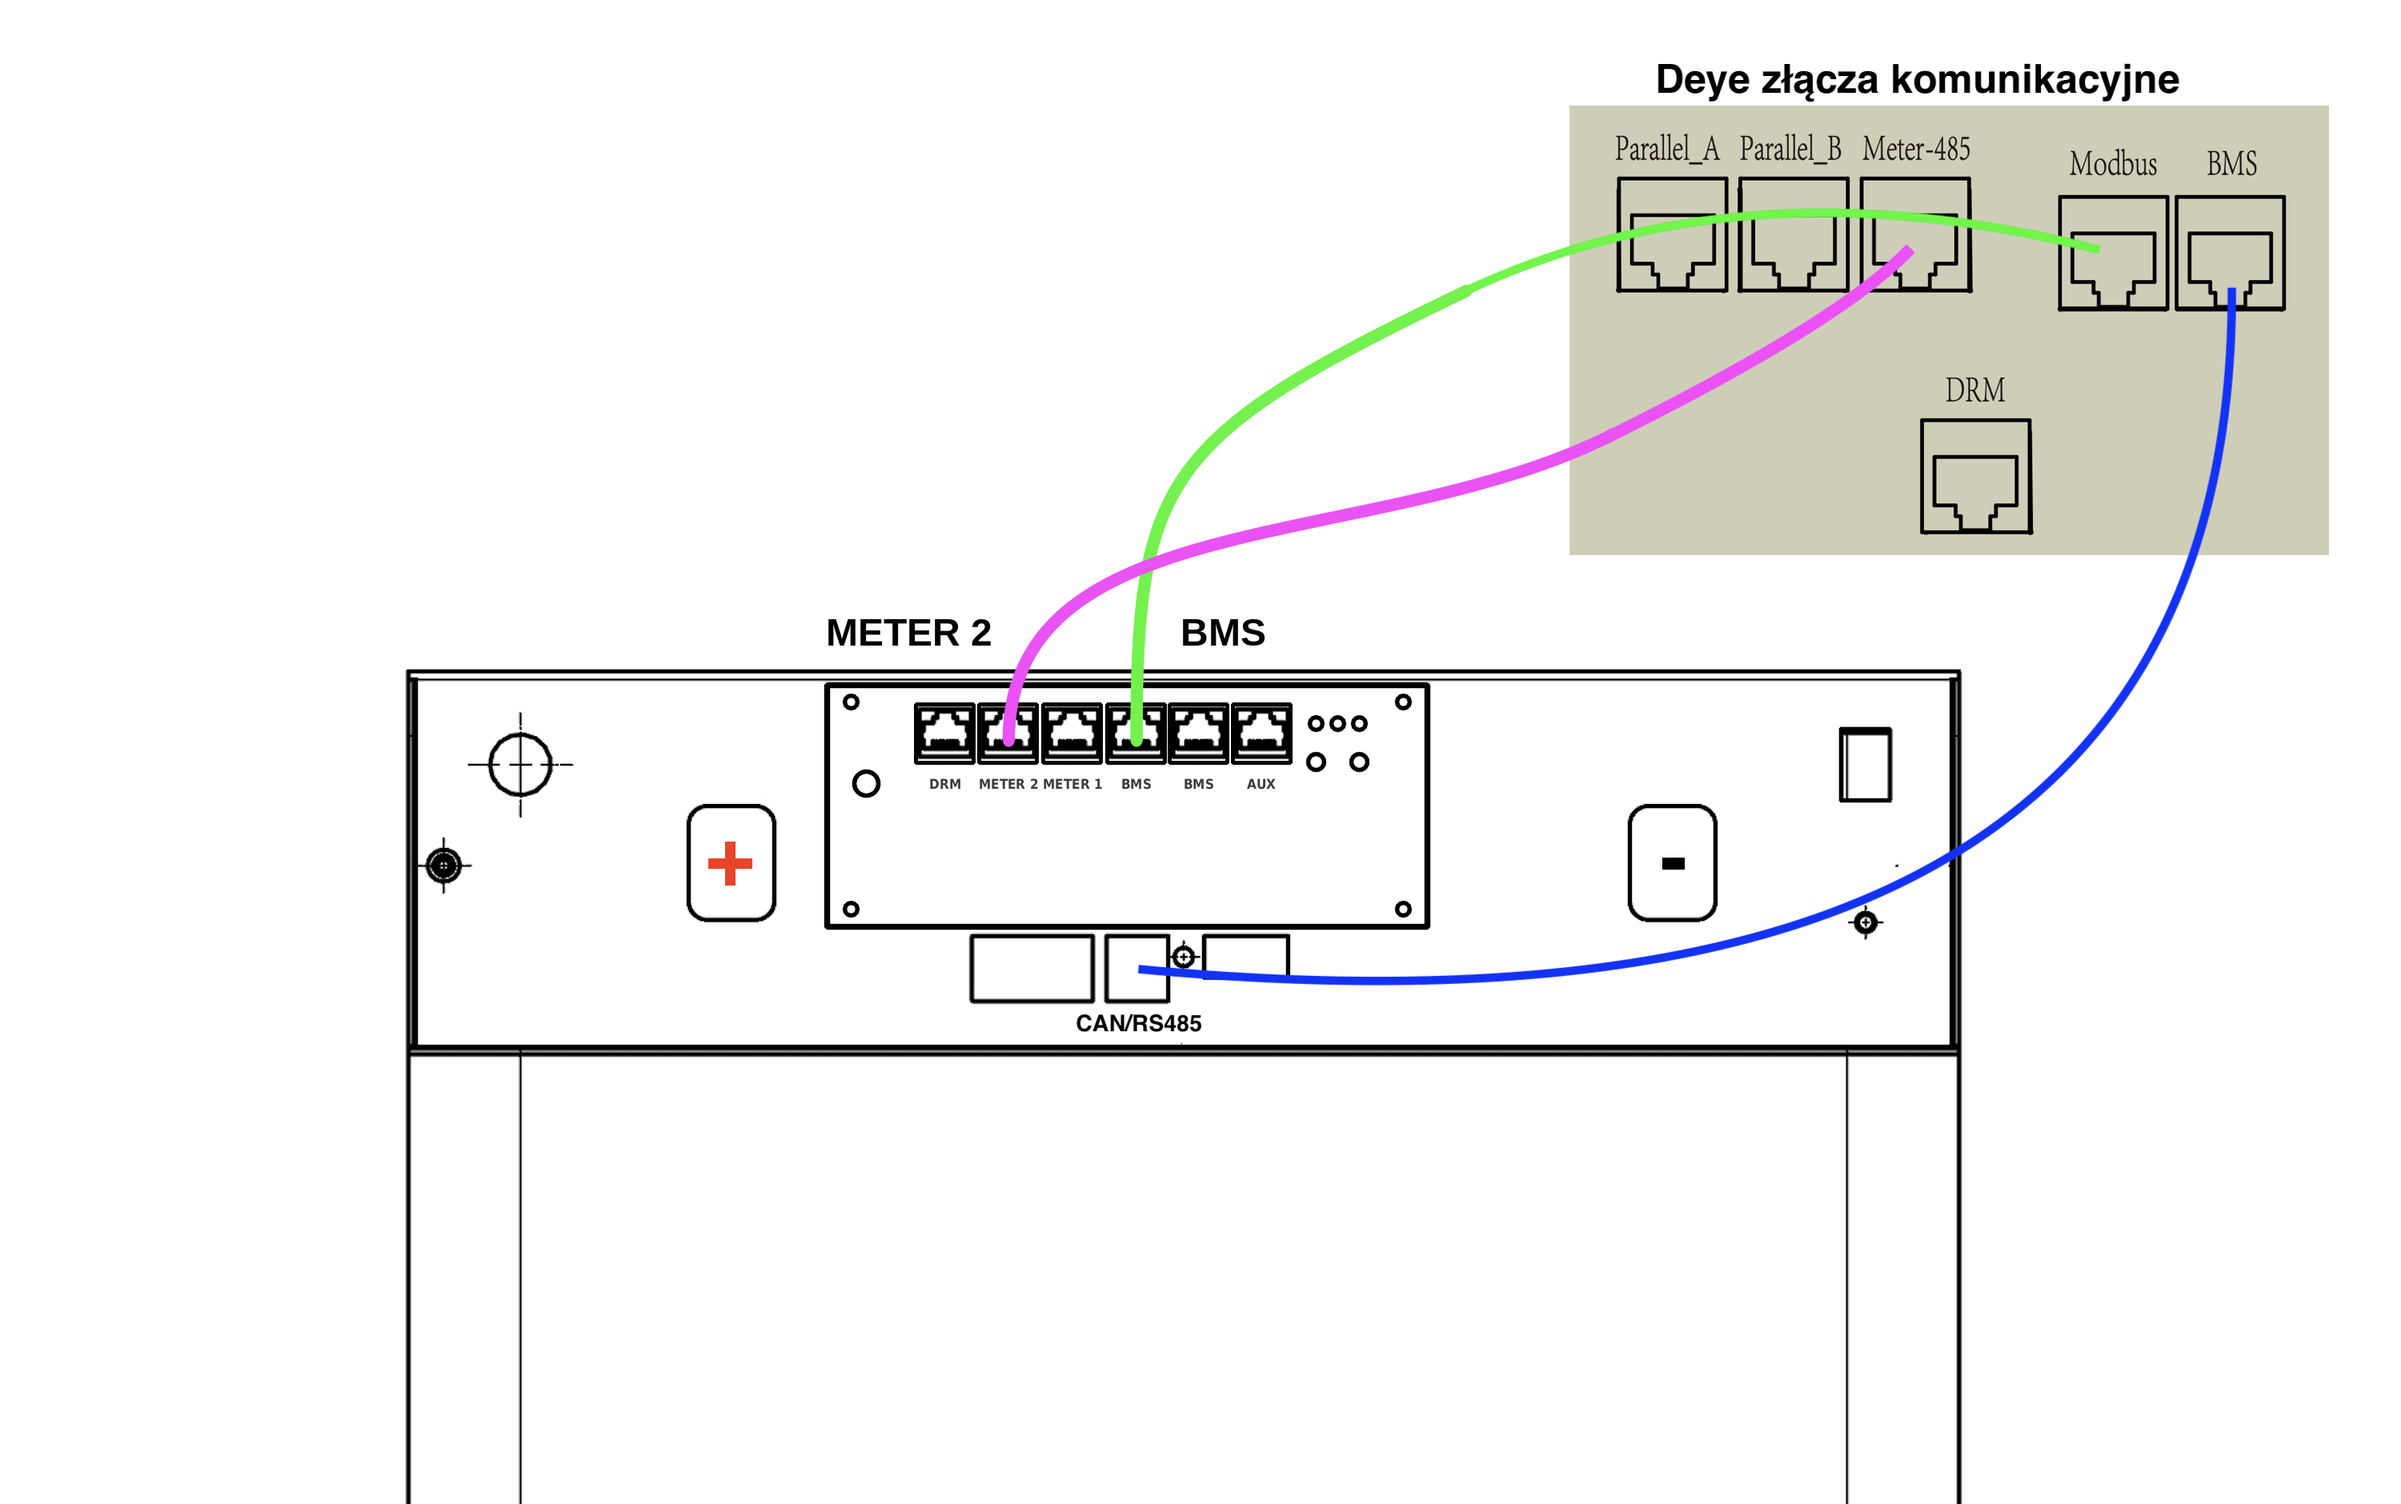
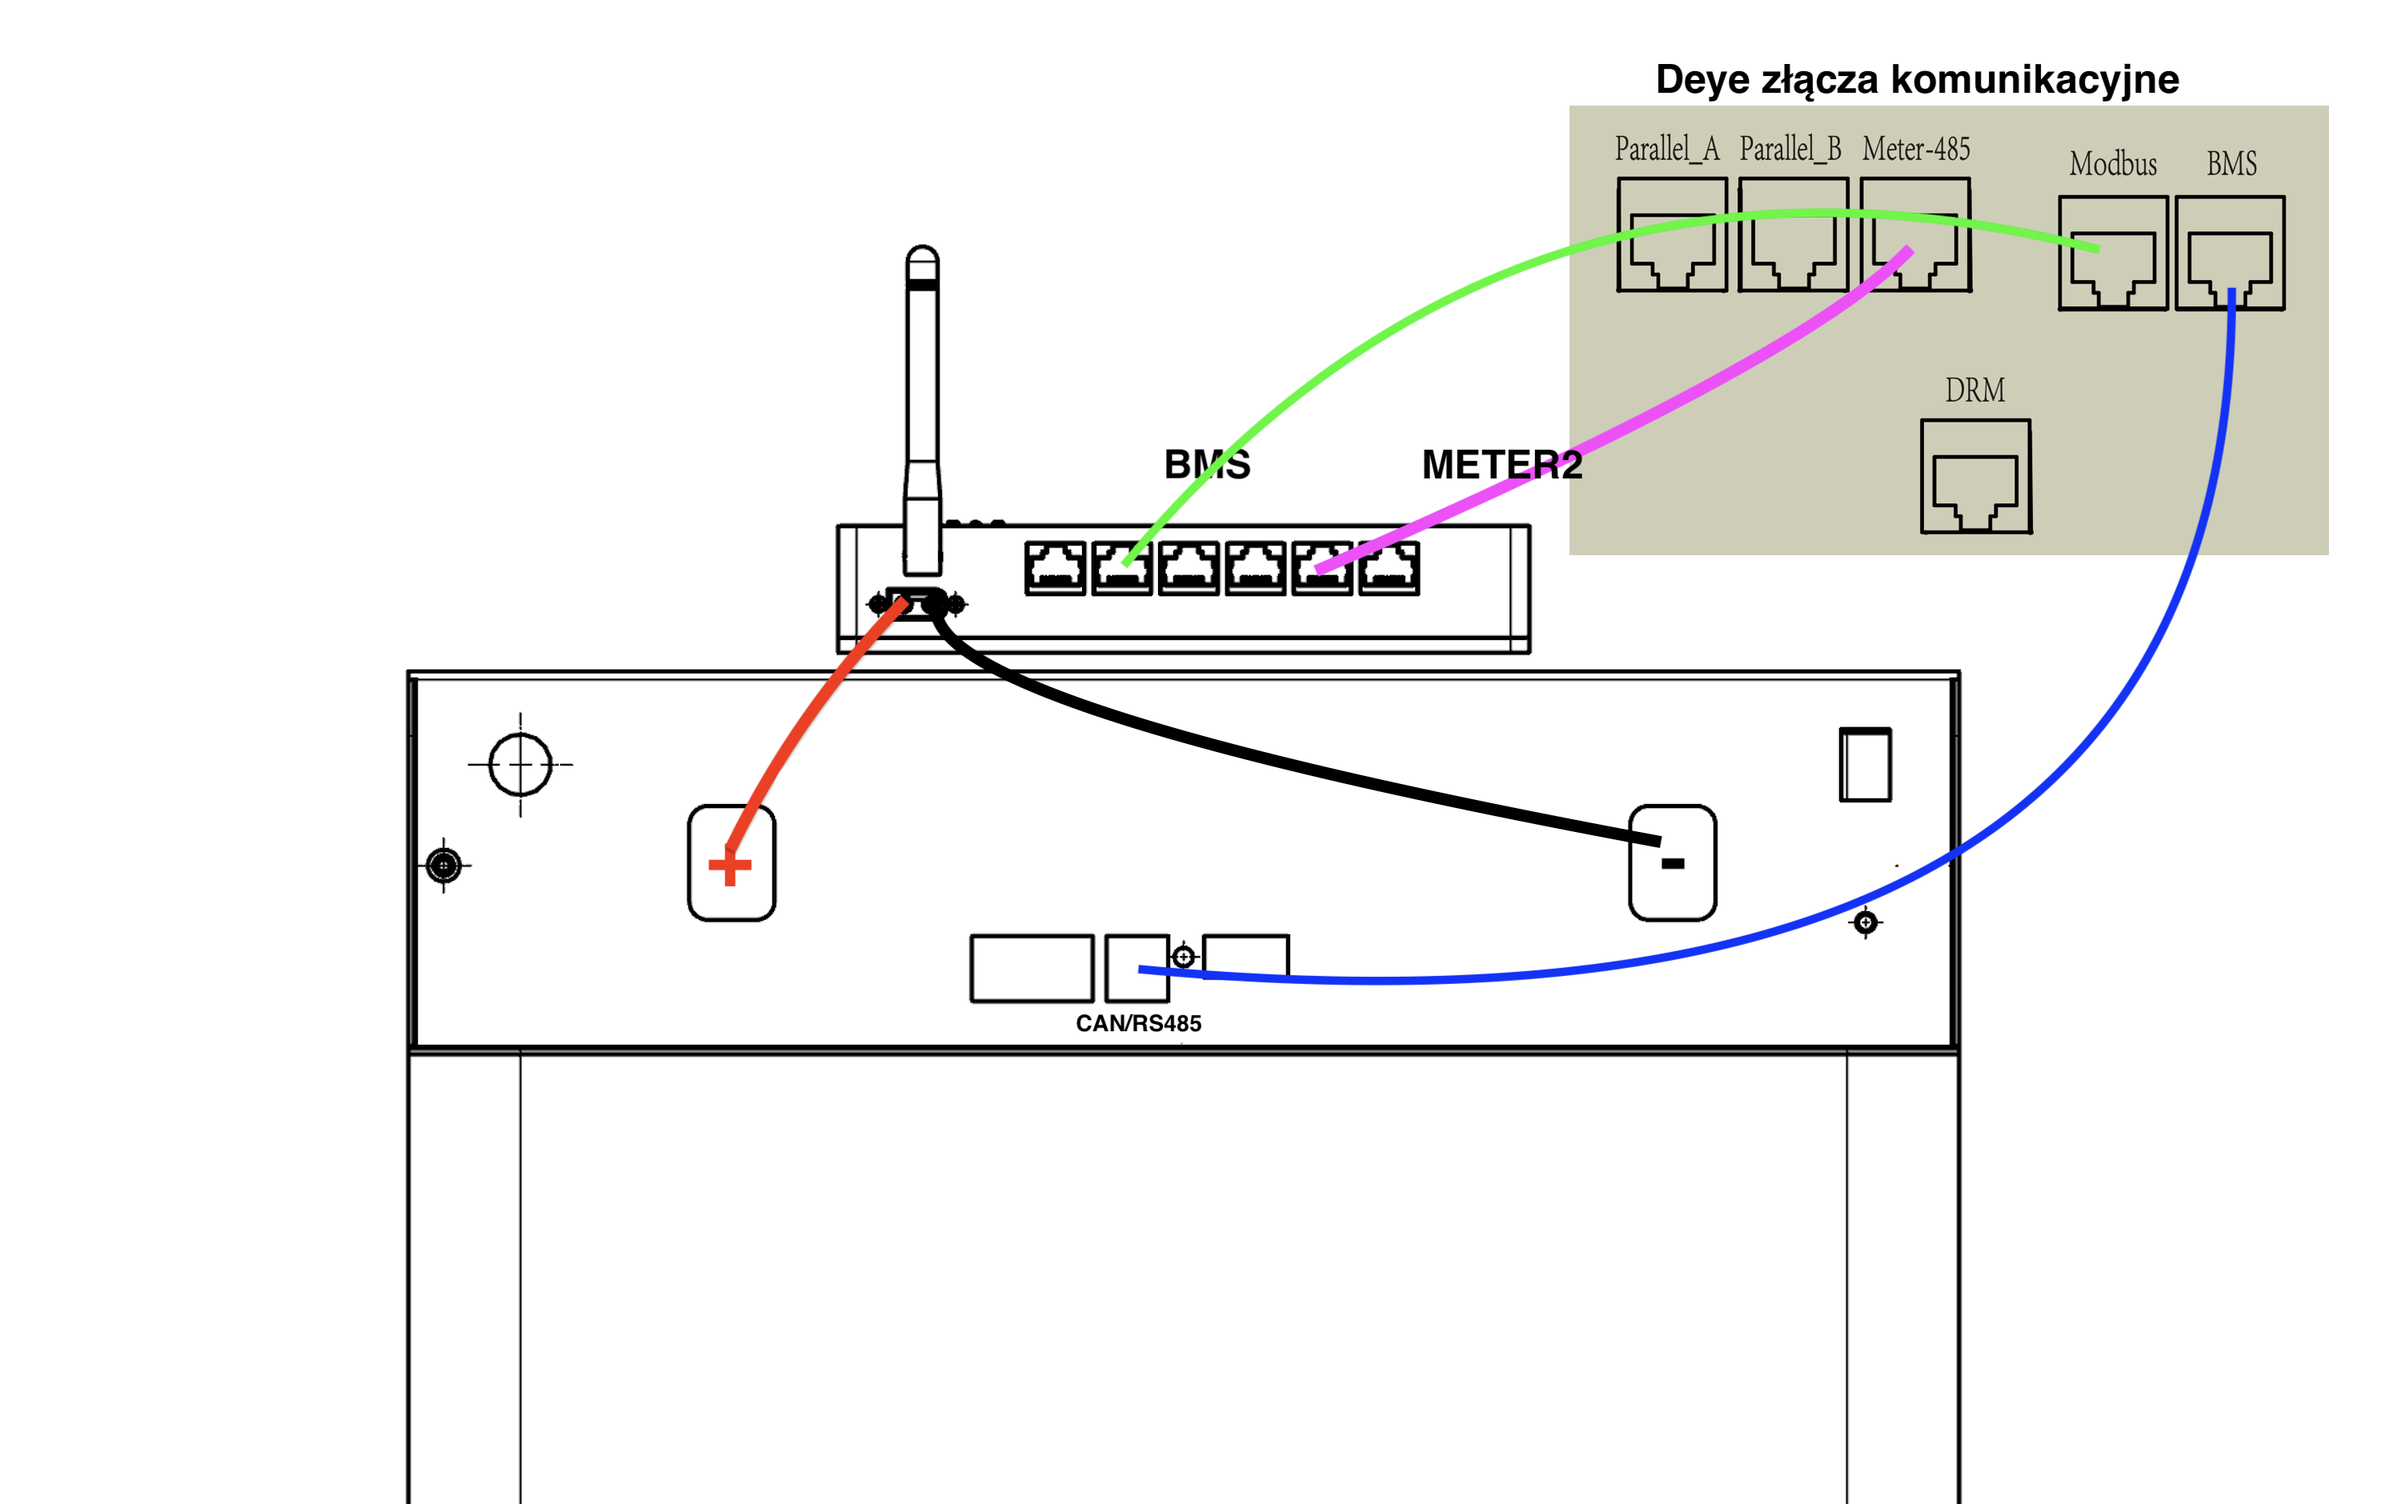
Revert "dodano nowe zdiecia do instrukcji EMS"
This reverts commit 83e975df7aecaae30e8f59b5f678dfc97927aa54.

diff --git a/EMS/instrukcja.html b/EMS/instrukcja.html
@@ -161,15 +161,15 @@
             <div class="step-card">
                 <span class="step-number">Krok 3</span>
                 <h2>Połączenie baterii i falownika</h2>
-                <p>Zwróć uwagę na podłączenie pomiędzy modułem baterii, baterią oraz samym falownikiem. Wykorzystaj złącza w module EMS baterii opisane jako BMS oraz METER 2 na panelu złączy magazynu. </p>
-                <img src="img/ems-deye.png" alt="połączenie modułu EMS (wewnątrz magazynu) z falownikiem Deye" class="step-image">
+                <p>Zwróć uwagę na podłączenie pomiędzy modułem baterii, baterią oraz samym falownikiem. Wykorzystaj złącza w module EMS baterii opisane jako BMS oraz METER2. </p>
+                <img src="../Integrator/img/deye-integrator.png" alt="meter integrator connection" class="step-image">
             </div>
 
             <div class="step-card">
                 <span class="step-number">Krok 4</span>
                 <h2>Parowanie urządzeń</h2>
                 <p>Upewnij się, że wszystkie połączenia elektryczne są poprawnie wykonane oraz, że wszystkie skrętki oraz złącza RJ45 poprawnie przewodzą prąd. Włącz baterię oraz zasilanie w rozdzielni elektryczej. Przytrzymaj zaznaczone przyciski minimum 4 sekundy aż do pojawienia się migających na zielono diód. Zwiększenie częstotliwości migania diód oznacza poprawnie zakończony proces parownia. </p>
-                <img src="img/ems-pair.png" alt="parowanie: przycisk na panelu złączy magazynu" class="step-image">
+                <img src="../Integrator/img/integrator-pair.png" alt="meter integrator connection" class="step-image">
             </div>
             <div class="step-card">
                 <span class="step-number">Krok 5</span>
@@ -209,15 +209,15 @@
             <div class="step-card">
                 <span class="step-number">Krok 3</span>
                 <h2>Połączenie baterii i falownika</h2>
-                <p>Zwróć uwagę na podłączenie pomiędzy modułem baterii, baterią oraz samym falownikiem. Wykorzystaj złącza w module EMS baterii opisane jako BMS oraz METER 1 na panelu złączy magazynu. </p>
-                <img src="img/ems-hoymiles.png" alt="połączenie modułu EMS (wewnątrz magazynu) z falownikiem Hoymiles" class="step-image">
+                <p>Zwróć uwagę na podłączenie pomiędzy modułem baterii, baterią oraz samym falownikiem. Wykorzystaj złącza w module EMS baterii opisane jako BMS oraz METER1. </p>
+                <img src="../Integrator/img/hoymiles-integrator.png" alt="meter integrator connection" class="step-image">
             </div>
 
             <div class="step-card">
                 <span class="step-number">Krok 4</span>
                 <h2>Parowanie urządzeń</h2>
                 <p>Upewnij się, że wszystkie połączenia elektryczne są poprawnie wykonane oraz, że wszystkie skrętki oraz złącza RJ45 poprawnie przewodzą prąd. Włącz baterię oraz zasilanie w rozdzielni elektryczej. Przytrzymaj zaznaczone przyciski minimum 4 sekundy aż do pojawienia się migających na zielono diód. Zwiększenie częstotliwości migania diód oznacza poprawnie zakończony proces parownia. </p>
-                <img src="img/ems-pair.png" alt="parowanie: przycisk na panelu złączy magazynu" class="step-image">
+                <img src="../Integrator/img/integrator-pair.png" alt="meter integrator connection" class="step-image">
             </div>
             <div class="step-card">
                 <span class="step-number">Krok 5</span>
@@ -347,4 +347,4 @@
     </script>
 
 </body>
-</html>
+</html>
